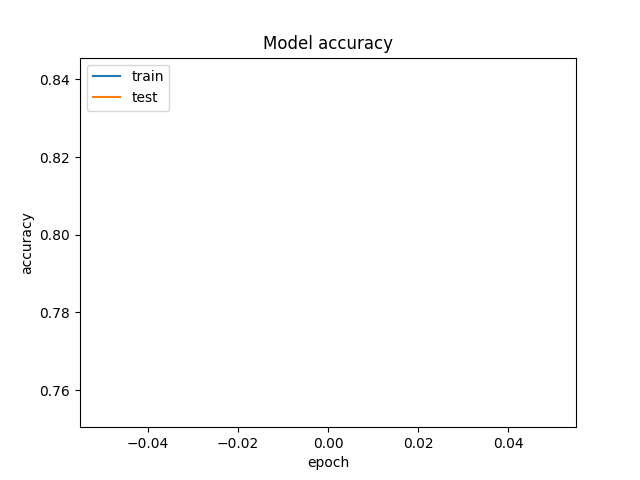
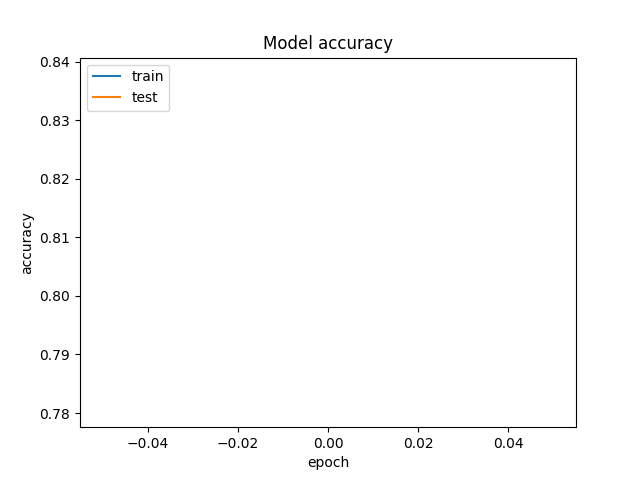
ran 100 epochs. evidence of overfitting

diff --git a/src/otis.py b/src/otis.py
@@ -151,6 +151,8 @@ def main():
     (X_train, y_train, X_test, y_test, X_val, y_val) = preprocess(target_w, target_h) 
     print("... define model")
     cnn = model(target_w, target_h) 
+
+    print(">>> For epochs: " + str(epochs))
     print("... fit model")
     history_cnn = cnn.fit(X_train, y_train, epochs=epochs, verbose=1, validation_data=(X_test, y_test))
     cnn.save_weights("model/weights/weights_" + str(epochs) + "epochs.model")
@@ -171,7 +173,8 @@ def main():
     plt.ylabel('accuracy')
     plt.legend(['train', 'test'], loc='upper left')
     plt.savefig('model/img/acc_' + str(epochs) + 'epochs.png')
-    plt.show()
+    #plt.show()
+    plt.clf()
 
     # Plot loss
     plt.plot(history_cnn.history['loss'])
@@ -181,11 +184,13 @@ def main():
     plt.ylabel('loss')
     plt.legend(['train', 'test'], loc='upper left')
     plt.savefig('model/img/loss_' + str(epochs) + 'epochs.png')
-    plt.show()
+    #plt.show()
+    plt.clf()
 
     # Evalute
     score = cnn.evaluate(X_test, y_test)
     print(score)
+    # epochs += 20
  
 if __name__ == '__main__':
     main()

diff --git a/src/hyperparams.py b/src/hyperparams.py
@@ -7,6 +7,6 @@ The file defines hyperparameters for the convolutional
 neural network.
 """
 
-epochs      = 10
+epochs      = 100
 target_w    = 224
 target_h    = 224
